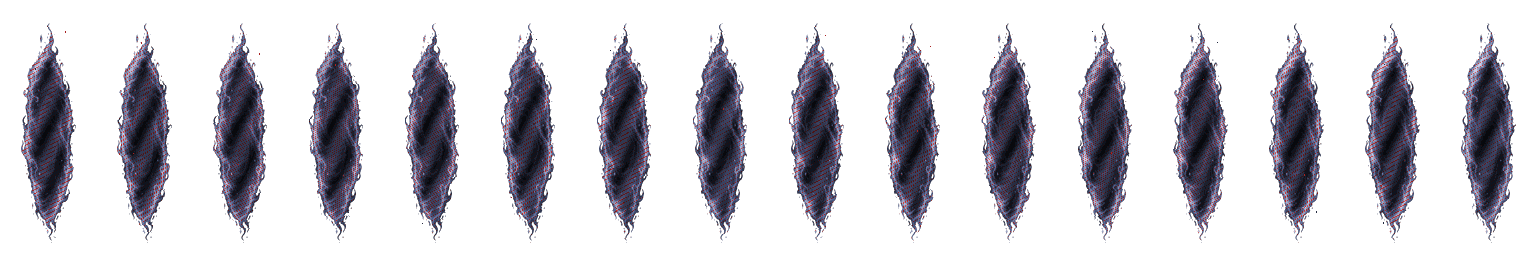
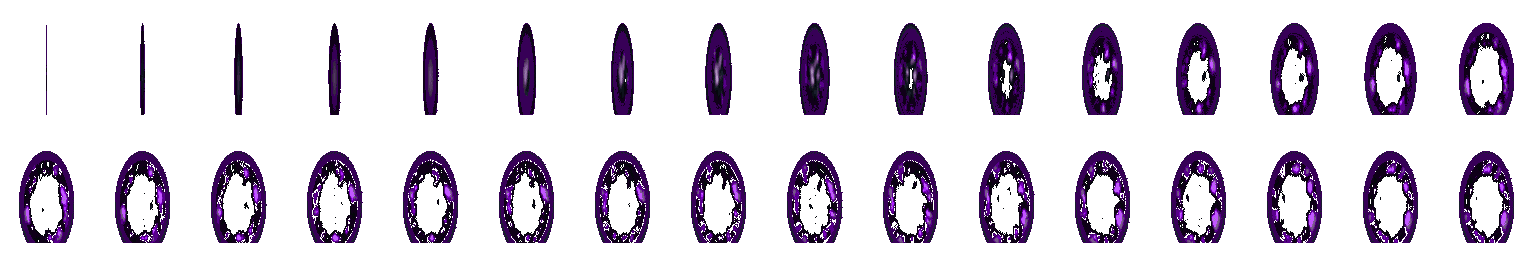
v1.12.059: the rift portals are vanilla's town-portal animation recoloured gold and purple (tools/BuildRiftPortals.ps1 from the exported strip; both files - the opening blossom, then the standing loop - as a 2-row PNG sheet, rows = animFAmt); the Stonegate stands at (60,40), three tiles south-east o

diff --git a/Source/misdat.cpp b/Source/misdat.cpp
@@ -407,8 +407,8 @@ MissileFileData MissileSpriteData[] = {
 /*RaiseDead*/                { {},               96,          16, "raise_dead",        1, MissileGraphicsFlags::PngOnly,                 2, AnimLen_12      },
 /*CurseCast*/                { {},              192,          64, "curse_cast",        1, MissileGraphicsFlags::PngOnly,                 1, AnimLen_12      },
 // Oracool 2026-09-20: the Stonegate's portals - the town portal's own frame (96 wide, 16 frames, delay 3), one strip each.
-/*RiftPortalGold*/           { {},               96,          16, "portal_gold",       1, MissileGraphicsFlags::PngOnly,                 3, AnimLen_16      },
-/*RiftPortalPurple*/         { {},               96,          16, "portal_purple",     1, MissileGraphicsFlags::PngOnly,                 3, AnimLen_16      },
+/*RiftPortalGold*/           { {},               96,          16, "portal_gold",       2, MissileGraphicsFlags::PngOnly,                 3, AnimLen_16      }, // vanilla's portal1/portal2 recoloured (tools/BuildRiftPortals.ps1): row 0 opens, row 1 stands
+/*RiftPortalPurple*/         { {},               96,          16, "portal_purple",     2, MissileGraphicsFlags::PngOnly,                 3, AnimLen_16      },
 /*None*/                     { {},                0,           0, {},                 0, MissileGraphicsFlags::None,                     0, 0               },
 	// clang-format on
 };
@@ -437,7 +437,7 @@ void MissileFileData::LoadGFX()
 	// a time. animFAmt IS the direction count, so it decides the sheet's shape here as well as below;
 	// asking it once for both is what keeps a sixteen-facing sheet from being read as one row.
 	if (std::optional<OwnedClxSpriteListOrSheet> png
-	    = oracool::LoadPngMissileSheet(name, animWidth, animFAmt == 1 ? 1 : 16);
+	    = oracool::LoadPngMissileSheet(name, animWidth, animFAmt); // one row per file/direction, as the exporter writes them (2 for the portals since 2026-09-20)
 	    png.has_value()) {
 		sprites.emplace(std::move(*png));
 		return;

diff --git a/Source/missiles.cpp b/Source/missiles.cpp
@@ -3836,8 +3836,10 @@ void AddRedPortal(Missile &missile, AddMissileParameter & /*parameter*/)
 void AddRiftPortal(Missile &missile, AddMissileParameter & /*parameter*/)
 {
 	// Oracool (2026-09-20): stands until the Stonegate closes - no range, no close animation;
-	// oracool::CloseStonegate releases the light and flags it. The town portal's own frame and
-	// loop (16 frames, delay 3) come from the graphics table.
+	// oracool::CloseStonegate releases the light and flags it. The art is VANILLA's town portal
+	// recoloured (user: "i want to use vanilla portal animation"): file 0 is the opening blossom,
+	// file 1 the standing loop, and ProcessRiftPortal switches to file 1 once the opening has run,
+	// as ProcessTownPortal does by its countdown.
 	missile._mirange = 1;
 	missile._mlid = AddLight(missile.position.tile, 6);
 	PutMissile(missile);
@@ -5426,7 +5428,10 @@ void ProcessRedPortal(Missile &missile)
 
 void ProcessRiftPortal(Missile &missile)
 {
-	// Nothing to count down: the generic advance loops its sixteen frames; the gate removes it.
+	// Nothing to count down; the gate removes it. The opening animation (file 0) plays once, then
+	// the standing loop (file 1) - checked on the last frame, before the generic advance wraps it.
+	if (missile._mimfnum == 0 && missile._miAnimFrame >= missile._miAnimLen)
+		SetMissDir(missile, 1);
 	PutMissile(missile);
 }
 

diff --git a/Source/oracool/stonegate.cpp b/Source/oracool/stonegate.cpp
@@ -80,9 +80,12 @@ void AddStonegateObject()
 	// tables moves. The rock stand's own sheet is loaded first because SetupObject asks for it.
 	PrepareStonegateCarrier();
 
-	// The open ground south-east of the well, away from the Roar's plaza junction (55, 66) and the
-	// path to the cathedral; the sprite is three tiles wide, so the neighbours must be clear too.
-	constexpr Point Candidates[] = { { 62, 74 }, { 63, 75 }, { 61, 73 }, { 64, 76 }, { 60, 72 }, { 65, 77 } };
+	// Beside the town portal's own landing tile (user, 2026-09-20: "next to the default town portal
+	// spawning location in tristram, just a couple or three tiles southeast of it, to avoid
+	// overlapping"). The portal lands on WarpDrop[0] = (57, 40) in portal.cpp; south-east is +x on
+	// this map, so three tiles along is (60, 40), then the tiles around it. (59, 40), (61, 40) and
+	// (63, 40) are the other players' portal slots and are avoided even though V1 is single-player.
+	constexpr Point Candidates[] = { { 60, 40 }, { 60, 41 }, { 61, 41 }, { 60, 39 }, { 62, 41 }, { 62, 42 } };
 	for (const Point &position : Candidates) {
 		if (!InDungeonBounds(position) || dObject[position.x][position.y] != 0 || TileHasAny(dPiece[position.x][position.y], TileProperties::Solid))
 			continue;

diff --git a/.ProjectDocumentation/02-Development-Reports/2026-09-20-rift-portals-are-vanillas-v1.12.059.md b/.ProjectDocumentation/02-Development-Reports/2026-09-20-rift-portals-are-vanillas-v1.12.059.md
@@ -1,0 +1,42 @@
+# 2026-09-20 - The rift portals are vanilla's, recoloured; the Stonegate moves beside the town portal (v1.12.059)
+
+**Date:** 2026-09-20 (morning) - Debug only - green: 821/821 (build 32). User: "for nephalem and guardian
+rifts i want to use vanilla portal animation. rfa for a monument asset that will fit vanilla portal animation in.
+animation will be recoloured according to the colors i specified earlier. this monument to be next to the default
+town portal spawning location in tristram, just a couple or three tiles southeast of it, to avoid overlapping."
+
+## What was found
+
+The exported vanilla strip `Resources/00-original-game-art/missiles/portal.png` is 1536 x 256. RfA-19 read it as
+sixteen frames of 96 x 256 and sized the monument's opening (72 x 236) to a 55 x 220 oval. It is TWO ROWS of
+96 x 128: the exporter writes one row per file, and the town portal has two files - `portal1.cel`, the opening
+blossom (a line widening into the oval), and `portal2.cel`, the standing loop that `ProcessTownPortal` switches
+to by `SetMissDir(missile, 1)` once its countdown reaches `var1`. The standing portal's oval is **56 x 92**
+(x 19..74, y 23..114 of the 128-tall frame), its bottom 13 px above the ground point. The batch-42 monument is
+three times too tall for it (composite in the session's scratchpad, sent to the user).
+
+## What changed
+
+- `tools/BuildRiftPortals.ps1`: reads the vanilla strip and writes `missiles/portal_gold.png` (hue 42, +25%
+  saturation) and `missiles/portal_purple.png` (hue 278, +15%) into packaging - every coloured pixel takes the
+  target hue and keeps its lightness and alpha; greys, whites and blacks are untouched, so the animation is
+  vanilla's to the frame. Done in RGB on the 32-bit renderer because the palette has no purple ramp. GPT's
+  painted portals from batch 42 are replaced in packaging (they stay in the delivery folder).
+- `misdat.cpp`: the PNG sheet loader now takes `animFAmt` rows (it was `1 : 16`), which is what the exporter
+  writes - one row per file or direction; the two rift rows have `animFAmt = 2`.
+- `missiles.cpp`: `ProcessRiftPortal` switches from file 0 to file 1 on the opening's last frame, so a rift
+  portal blossoms open like the town portal and then stands.
+- `oracool/stonegate.cpp`: the gate's first candidate tile is (60, 40) - `WarpDrop[0]` in portal.cpp is
+  (57, 40) and south-east is +x on this map - then (60,41), (61,41), (60,39), (62,41), (62,42); the other players'
+  portal slots (59,40), (61,40), (63,40) are avoided.
+- `Resources/ChatGPT RfA/RfA-21 - The Stonegate, second cut.md` (+ standing instruction): the monument only,
+  frames 128 x 160, an opening ellipse 66 x 102 centred with its bottom 9 px above the frame bottom (the portal
+  then sits inside with a 5 px margin), seventeen frames as before, baked shadows as the user asked; delivery
+  `batch-44-stonegate-second-cut/`. When it lands: `OracoolStonegateAnimWidth` 192 -> 128, rebuild
+  `orclgate.cel` with tools/build_stonegate_cel.cmd (check its frame size), repack.
+
+## Also
+
+- Build 31 died on LNK1168: a windowless `DiabloOrcl.exe` from 05:02 (the game does not exit cleanly - roadmap
+  card) was stopped and the build re-run as build 32.
+- The batch-43/44 delivery sweep runs every five minutes (43d sounds + RfA-20 report, batch-44 + RfA-21 report).
